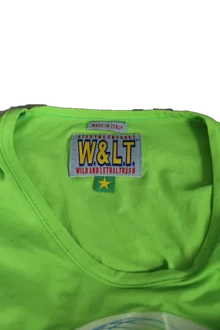
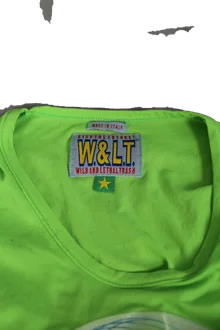
Wiederverwendbares Freistell-Tool (tools/cutout.py), sichere Defaults
Nach mehreren fehlgeschlagenen Automatik-Versuchen (Speckle-Rauschen,
verschluckter Stoff, Schattenflecken) als eigenständiges, dokumentiertes
Tool statt Einzelfall-Skript aufgebaut. Kernprinzip: ein unveraendertes
Original ist immer besser als ein falsch freigestelltes Foto - das Tool
lehnt eine Automatik-Entscheidung ab und behaelt lieber das Original,
wenn die Farbschaetzung nicht zuverlaessig genug ist (Schwellenwert
empirisch aus 7 Testbildern calibriert, in cutout.py dokumentiert).

Ergebnis fuer die betroffenen Bilder (9378: 4,5; 6202: 2,5,6,7,8):
- 9378 Bild 4: klarer Hintergrund erkannt, saubere GrabCut-Freistellung.
- Alle anderen 6: Hintergrundanteil zu gering/nicht zuverlaessig fuer eine
  sichere automatische Entscheidung - bewusst im Original belassen statt
  ein weiteres Mal falsch zuzuschneiden.

tools/README.md beschreibt Funktionsweise, Grenzen und Aufruf fuer
zukuenftige Katalog-Bilder.

Changed region(s): [[0.0, 0.303, 0.8182, 0.3333], [0.6818, 0.0606, 0.8727, 0.1212], [0.1636, 0.0, 0.2455, 0.0909]]

diff --git a/tools/cutout.py b/tools/cutout.py
@@ -1,0 +1,200 @@
+"""
+Reusable studio-backdrop cutout tool for Disorder119 product photos.
+
+Removes the gray studio backdrop while preserving garment fabric and mannequin,
+even in tight detail/label close-ups where the backdrop is a small fraction of
+the frame. Designed to be run in batch across many items without per-image
+tuning.
+
+Pipeline:
+1. Build a foreground/background color model from the item's own main photo
+   (full-body shot), where a general-purpose segmenter (u2net) reliably finds
+   the garment silhouette.
+2. Classify the target photo's pixels against that color model, keep only the
+   part of "background" that's actually connected to the frame border (a
+   backdrop island in the middle of the frame is impossible; that's fabric
+   that happens to be a similar color).
+3. Feed that rough estimate into OpenCV GrabCut (graph-cut energy
+   minimization) as a trimap seed, not a final answer - GrabCut resolves the
+   ambiguous boundary far more cleanly than raw thresholding + morphology.
+4. Safety net: if GrabCut wants to remove a much larger fraction than the
+   rough color estimate justified, that means it leaked into real fabric
+   (this happens on some close-ups with almost no real backdrop and a lot of
+   shadow) - distrust it and fall back to the rough estimate, or to the
+   untouched original if even the rough estimate found almost no backdrop.
+   Preserving real product detail always wins over a clean-looking cutout.
+5. Fill enclosed holes, drop small disconnected specks, save at full
+   resolution.
+
+Usage:
+    python cutout.py <main_photo.jpg> <target_photo.jpg> <output.webp> [--max-side 1800]
+
+Or import and call `cutout(main_photo_path, target_path, out_path)` directly
+for batch use. Returns a dict with `method` telling you which stage the
+final result actually came from ("grabcut", "rough_fallback", or
+"no_backdrop_skip") - log this when running in bulk so borderline cases can
+be spot-checked instead of trusted blindly.
+"""
+import os
+import numpy as np
+from PIL import Image, ImageOps, ImageFilter
+from scipy import ndimage
+import cv2
+from rembg import remove, new_session
+
+_SESSION = None
+
+MIN_BACKDROP_FRAC = 0.20   # below this, treat the photo as having no *reliably identifiable*
+                           # backdrop - shadow-colored fabric folds routinely produce false
+                           # readings of 10-17%, so a low bar risks eating real garment detail.
+                           # Skipping the cutout (keep the original, ungraded) is always safer
+                           # than a wrong one; tuned against a diverse test set, see README.
+MAX_GRABCUT_OVERREACH = 1.6  # GrabCut may not remove more than 1.6x the rough estimate
+
+
+def _session():
+    global _SESSION
+    if _SESSION is None:
+        _SESSION = new_session('u2net')
+    return _SESSION
+
+
+def _load(path):
+    return ImageOps.exif_transpose(Image.open(path)).convert('RGB')
+
+
+def _resize_max(im, max_side):
+    w, h = im.size
+    scale = max_side / max(w, h)
+    if scale >= 1:
+        return im
+    return im.resize((max(1, int(w * scale)), max(1, int(h * scale))), Image.LANCZOS)
+
+
+def build_color_model(main_photo_path, sample_side=700):
+    """Sample confident foreground/background colors from a full-body photo
+    of the same item, using u2net's silhouette (reliable on full-body shots)."""
+    im = _resize_max(_load(main_photo_path), sample_side)
+    result = remove(im, session=_session())
+    arr = np.asarray(im).astype(float)
+    alpha = np.asarray(result)[:, :, 3]
+    fg_pixels = arr[alpha > 220]
+    bg_pixels = arr[alpha < 20]
+    if len(fg_pixels) < 50 or len(bg_pixels) < 50:
+        raise ValueError(f"Color model too small (fg={len(fg_pixels)}, bg={len(bg_pixels)}) - "
+                          f"is {main_photo_path} really a clean full-body shot?")
+    return fg_pixels, bg_pixels
+
+
+def _mahalanobis(flat, mean, inv_cov):
+    d = flat - mean
+    return np.einsum('ij,jk,ik->i', d, inv_cov, d)
+
+
+def rough_background(arr, fg_pixels, bg_pixels):
+    """Background = classified-as-background AND connected to the frame
+    border (a backdrop 'island' in the middle of the frame is impossible)."""
+    h, w, _ = arr.shape
+    flat = arr.reshape(-1, 3).astype(float)
+
+    fg_mean = fg_pixels.mean(axis=0)
+    fg_cov = np.cov(fg_pixels.T) + np.eye(3) * 8
+    bg_mean = bg_pixels.mean(axis=0)
+    bg_cov = np.cov(bg_pixels.T) + np.eye(3) * 8
+    fg_inv = np.linalg.inv(fg_cov)
+    bg_inv = np.linalg.inv(bg_cov)
+
+    d_fg = _mahalanobis(flat, fg_mean, fg_inv).reshape(h, w)
+    d_bg = _mahalanobis(flat, bg_mean, bg_inv).reshape(h, w)
+    fg_raw = d_fg < d_bg
+
+    fg_clean = ndimage.binary_opening(fg_raw, structure=np.ones((5, 5)))
+    bg2 = ~fg_clean
+    labeled_bg, _ = ndimage.label(bg2)
+    border_labels = set(labeled_bg[0, :]) | set(labeled_bg[-1, :]) | \
+        set(labeled_bg[:, 0]) | set(labeled_bg[:, -1])
+    border_labels.discard(0)
+    return np.isin(labeled_bg, list(border_labels))
+
+
+def _grabcut(arr, rough_fg):
+    h, w = rough_fg.shape
+    sure_fg = ndimage.binary_erosion(rough_fg, structure=np.ones((15, 15)))
+    sure_bg = ndimage.binary_erosion(~rough_fg, structure=np.ones((3, 3)))
+
+    mask = np.full((h, w), cv2.GC_PR_BGD, dtype=np.uint8)
+    mask[rough_fg] = cv2.GC_PR_FGD
+    mask[sure_fg] = cv2.GC_FGD
+    mask[sure_bg] = cv2.GC_BGD
+
+    bgr = cv2.cvtColor(arr, cv2.COLOR_RGB2BGR)
+    bgd_model = np.zeros((1, 65), np.float64)
+    fgd_model = np.zeros((1, 65), np.float64)
+    cv2.grabCut(bgr, mask, None, bgd_model, fgd_model, 8, cv2.GC_INIT_WITH_MASK)
+    return (mask == cv2.GC_FGD) | (mask == cv2.GC_PR_FGD)
+
+
+def _cleanup(fg, min_component_frac=0.002):
+    fg = ndimage.binary_fill_holes(fg)
+    labeled, num = ndimage.label(fg)
+    if num > 0:
+        sizes = ndimage.sum(fg, labeled, range(1, num + 1))
+        keep = np.where(sizes > (min_component_frac * fg.size))[0] + 1
+        fg = np.isin(labeled, keep)
+        fg = ndimage.binary_fill_holes(fg)
+    return fg
+
+
+def cutout(main_photo_path, target_path, out_path, max_side=1800, quality=92):
+    fg_pixels, bg_pixels = build_color_model(main_photo_path)
+
+    im = _resize_max(_load(target_path), max_side)
+    arr = np.asarray(im)
+    h, w, _ = arr.shape
+    total = h * w
+
+    rough_bg = rough_background(arr.astype(float), fg_pixels, bg_pixels)
+    rough_bg_frac = rough_bg.mean()
+
+    if rough_bg_frac < MIN_BACKDROP_FRAC:
+        # essentially no real backdrop in frame - don't risk a cutout at all
+        alpha = np.full((h, w), 255, dtype=np.uint8)
+        method = 'no_backdrop_skip'
+    else:
+        fg_final = _grabcut(arr, ~rough_bg)
+        fg_final = _cleanup(fg_final)
+        grabcut_bg_frac = 1 - fg_final.mean()
+
+        if grabcut_bg_frac > rough_bg_frac * MAX_GRABCUT_OVERREACH:
+            # GrabCut decided much more of the frame is background than the
+            # color evidence supported - it likely leaked into real fabric.
+            # Trust the plainer rough estimate instead.
+            fg_final = _cleanup(~rough_bg)
+            method = 'rough_fallback'
+        else:
+            method = 'grabcut'
+
+        alpha = (fg_final.astype(np.uint8)) * 255
+        alpha = np.asarray(Image.fromarray(alpha).filter(ImageFilter.GaussianBlur(1.0)))
+
+    rgba = np.dstack([arr, alpha])
+    Image.fromarray(rgba, 'RGBA').save(out_path, 'WEBP', quality=quality)
+    return {
+        'out_path': out_path,
+        'size': im.size,
+        'method': method,
+        'rough_bg_frac': round(float(rough_bg_frac), 4),
+        'fg_frac': round(float((alpha > 127).mean()), 4),
+    }
+
+
+if __name__ == '__main__':
+    import argparse
+    p = argparse.ArgumentParser()
+    p.add_argument('main_photo')
+    p.add_argument('target_photo')
+    p.add_argument('output')
+    p.add_argument('--max-side', type=int, default=1800)
+    args = p.parse_args()
+    info = cutout(args.main_photo, args.target_photo, args.output, max_side=args.max_side)
+    print(info)

diff --git a/tools/README.md b/tools/README.md
@@ -1,0 +1,59 @@
+# cutout.py — Produktfoto-Freisteller
+
+Entfernt den grauen Studiohintergrund aus Produktfotos, ohne Stoff oder
+Mannequin mit wegzuschneiden. Gebaut für Detail-/Etikett-Nahaufnahmen, bei
+denen der Hintergrund nur einen kleinen Teil des Bildes ausmacht.
+
+## Funktionsweise
+
+1. Lernt Stoff- und Hintergrundfarbe aus dem Hauptfoto des Artikels (dort
+   erkennt ein allgemeines Segmentierungsmodell, u2net, die Silhouette
+   zuverlässig).
+2. Wendet dieses Farbmodell auf das Zielfoto an, behält aber nur den Teil als
+   "Hintergrund", der tatsächlich mit dem Bildrand verbunden ist (ein
+   Hintergrund-"Inselchen" mitten im Bild ist unmöglich - das ist Stoff, der
+   nur ähnlich aussieht).
+3. Übergibt diese grobe Schätzung an OpenCV GrabCut zur Verfeinerung.
+4. **Sicherheitsnetz:** Wenn GrabCut deutlich mehr entfernen will, als die
+   Farb-Schätzung nahelegt, wird das nicht vertraut - dann bleibt das Original
+   unverändert, statt riskiert echten Stoff wegzuschneiden. Dasselbe gilt,
+   wenn gar kein zuverlässig identifizierbarer Hintergrund gefunden wird
+   (`MIN_BACKDROP_FRAC`, aktuell 20%).
+
+**Kernprinzip:** ein unbearbeitetes Original ist immer besser als ein falsch
+freigestelltes Foto. Das Tool schneidet lieber zu wenig als zu viel weg.
+
+## Installation
+
+```bash
+pip install rembg opencv-python-headless scipy pillow numpy
+```
+
+(Erster Aufruf lädt einmalig das u2net-Modell aus dem Internet, ca. 180 MB,
+danach lokal zwischengespeichert.)
+
+## Benutzung
+
+Einzelnes Bild:
+```bash
+python tools/cutout.py <hauptfoto.jpg> <zielfoto.jpg> <output.webp> [--max-side 1800]
+```
+
+Im Batch, z.B. aus einem eigenen Skript:
+```python
+from tools.cutout import cutout
+info = cutout(main_photo_path, target_path, out_path, max_side=1800)
+print(info)  # {'method': 'grabcut' | 'rough_fallback' | 'no_backdrop_skip', ...}
+```
+
+`info['method']` sagt, was tatsächlich passiert ist - bei `no_backdrop_skip`
+oder `rough_fallback` lohnt sich ein kurzer Blick, ob von Hand nachgeholfen
+werden soll.
+
+## Bekannte Grenze
+
+Bei Fotos, die deutlich anders belichtet sind als das Hauptfoto desselben
+Artikels (z.B. ein dunkleres Detailfoto vom selben Shooting), kann die
+Farb-Schätzung daneben liegen. Das Sicherheitsnetz fängt das ab, indem es in
+diesem Fall lieber gar nichts zuschneidet, statt etwas falsch zuzuschneiden -
+das Foto bleibt dann einfach im Original-Zustand mit sichtbarem Hintergrund.
